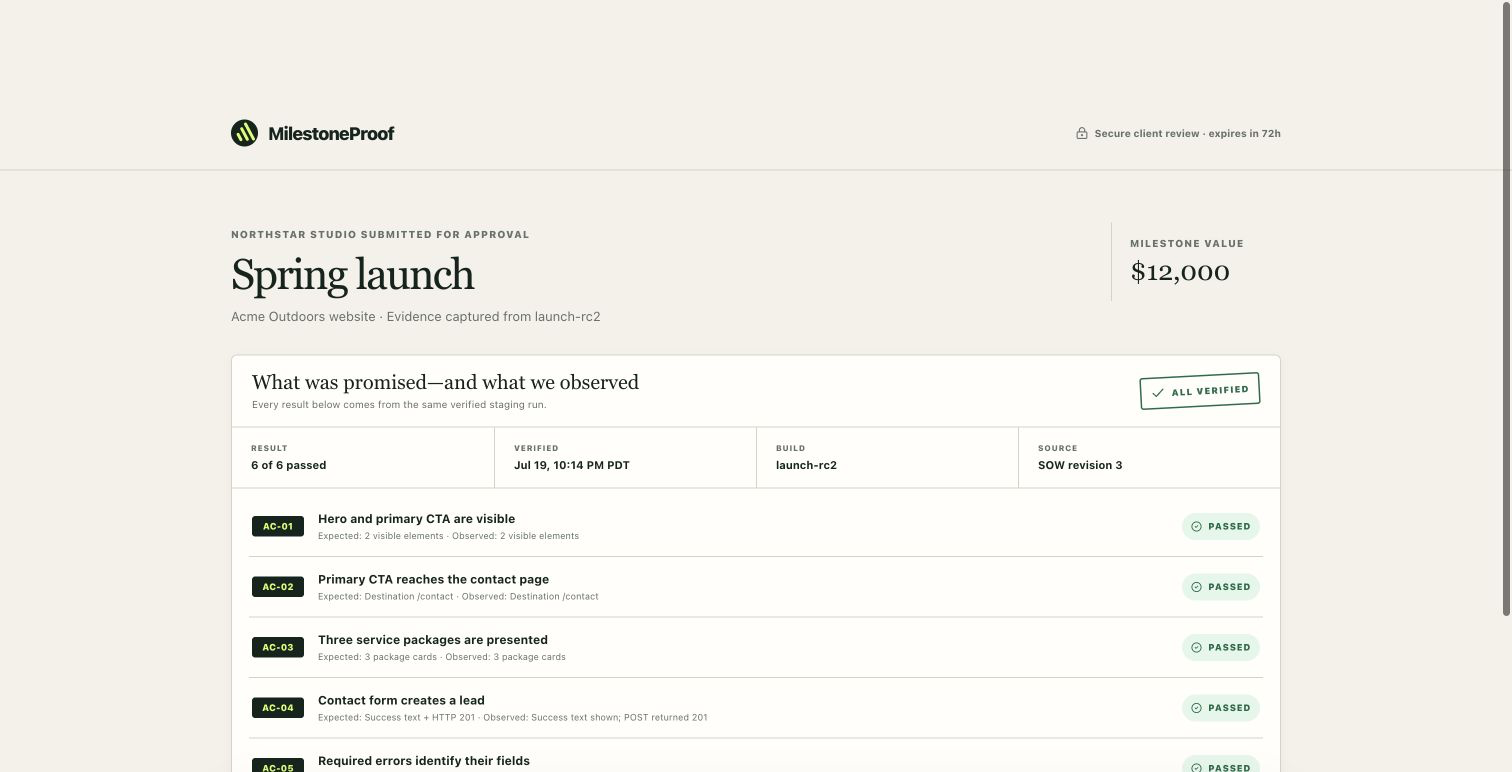
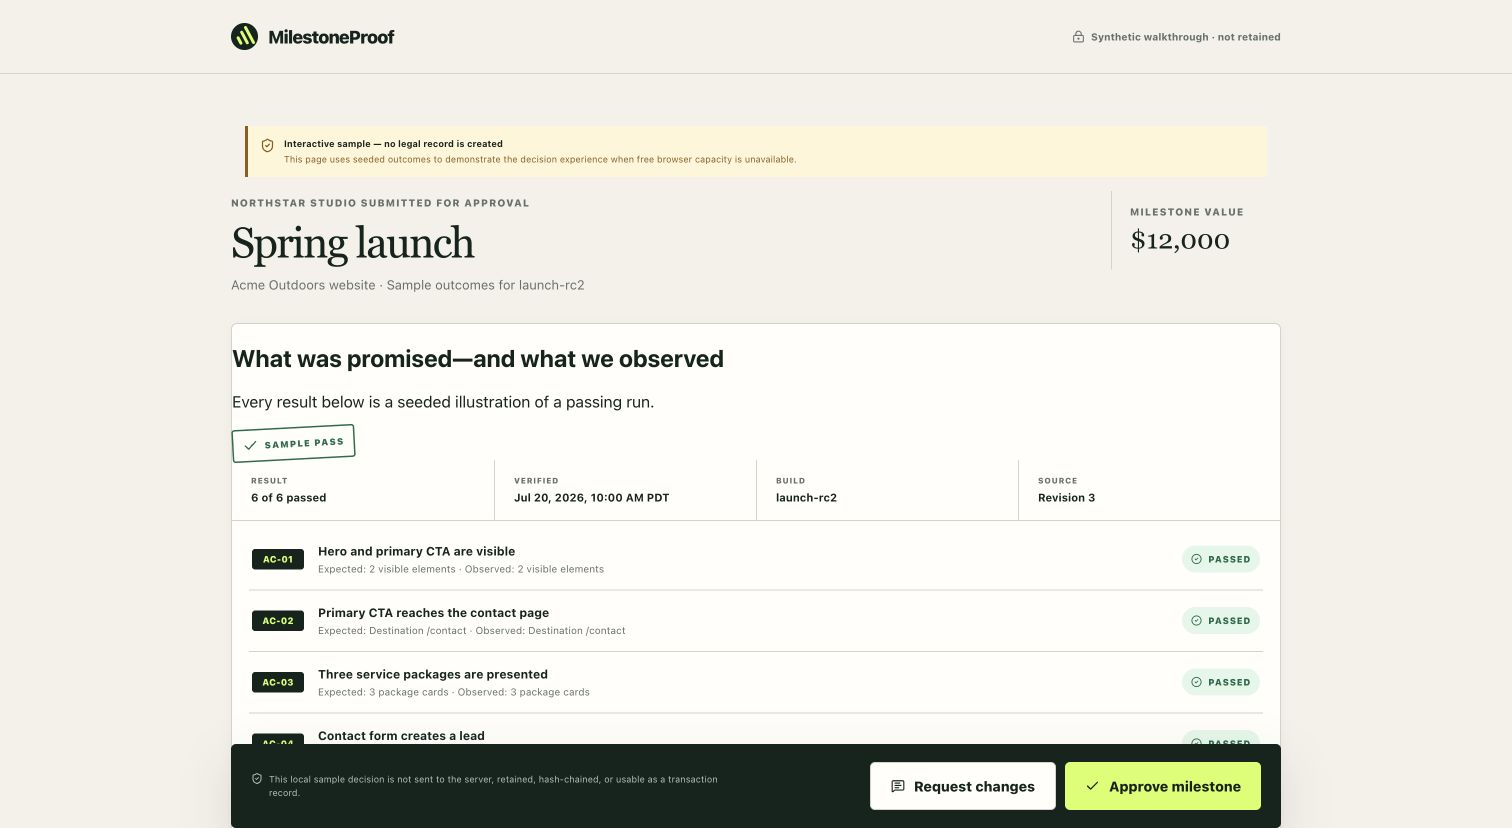
fix: stabilize demo timestamps and refresh screenshots

diff --git a/apps/web/components/approval-receipt.tsx b/apps/web/components/approval-receipt.tsx
@@ -23,7 +23,6 @@ type ReceiptPacket = {
 };
 
 const money = (amountMinor: number, currency: string) => new Intl.NumberFormat("en-US", { style: "currency", currency, maximumFractionDigits: 0 }).format(amountMinor / 100);
-const dateTime = (value: string) => formatTimestamp(new Date(value));
 
 type DemoReviewer = { reviewerName: string; reviewerEmail: string; reviewerNote: string; decidedAt: string };
 
@@ -54,6 +53,13 @@ function demoReceipt(reviewer: DemoReviewer = { reviewerName: "Sample Client", r
 }
 
 export function ApprovalReceipt({ packetId, demo = false }: { packetId: string; demo?: boolean }) {
+  const dateTime = (value: string) => formatTimestamp(new Date(value), demo ? "America/Los_Angeles" : undefined);
+  const dateStamp = (value: string) => new Intl.DateTimeFormat("en-US", {
+    month: "short",
+    day: "numeric",
+    year: "numeric",
+    ...(demo ? { timeZone: "America/Los_Angeles" } : {}),
+  }).format(new Date(value)).toUpperCase();
   const [packet, setPacket] = useState<ReceiptPacket | null>(() => demo ? demoReceipt() : null);
   const [error, setError] = useState("");
   const [toast, setToast] = useState("");
@@ -88,7 +94,7 @@ export function ApprovalReceipt({ packetId, demo = false }: { packetId: string; 
       <div className="receipt-toolbar"><Brand /><div className="receipt-toolbar__actions"><Link className="button button--outline button--small" href="/workspace"><ArrowLeft size={13} /> Workspace</Link>{!demo && <a className="button button--outline button--small" href={`/api/reviews/${encodeURIComponent(packetId)}/export`}><FileJson2 size={14} /> Export JSON</a>}<button className="button button--ink button--small" onClick={savePdf}><Download size={14} /> Save PDF</button></div></div>
       <article className="receipt-page" aria-label="Milestone approval record">
         {demo && <div className="analysis-notice"><FileWarning size={15} /><div><strong>Synthetic sample — not a retained approval record</strong><span>This printable page illustrates the final format. It has no evidence hashes, audit chain, server-side decision, or legal-record status.</span></div></div>}
-        <header className="receipt-head"><div><Brand /><h1>Milestone approval record</h1></div><div className="receipt-stamp"><span><Check size={23} strokeWidth={3} /><br />APPROVED<br />{new Date(packet.decidedAt).toLocaleDateString("en-US", { month: "short", day: "numeric", year: "numeric" }).toUpperCase()}</span></div></header>
+        <header className="receipt-head"><div><Brand /><h1>Milestone approval record</h1></div><div className="receipt-stamp"><span><Check size={23} strokeWidth={3} /><br />APPROVED<br />{dateStamp(packet.decidedAt)}</span></div></header>
         <section className="receipt-facts"><div><span>Agency</span><strong>{snapshot.agencyName}</strong></div><div><span>Client</span><strong>{snapshot.clientName}</strong></div><div><span>Milestone value</span><strong>{money(snapshot.amountMinor, snapshot.currency)}</strong></div></section>
         <span className="receipt-section-title">Approved scope · revision {snapshot.revision}</span>
         <div className="receipt-criteria">{snapshot.criteria.map((criterion) => <div className="receipt-criterion" key={criterion.id}><span className="criterion-id">{criterion.id}</span><div><strong>{criterion.title}</strong><small>{results[criterion.id]?.observed ?? "Recorded result"}</small></div><span className="status-badge status-badge--pass"><Check size={10} /> Passed</span></div>)}</div>

diff --git a/apps/web/components/client-review.tsx b/apps/web/components/client-review.tsx
@@ -29,7 +29,6 @@ type ReviewSnapshot = {
 type PacketResponse = { packetId: string; snapshot: ReviewSnapshot; snapshotSha256: string; expiresAt: string; decision?: "APPROVED" | "CHANGES_REQUESTED" | null; reviewerName?: string | null; reviewerEmail?: string | null; reviewerNote?: string | null; decidedAt?: string | null; receiptSha256?: string | null };
 
 const money = (amountMinor: number, currency: string) => new Intl.NumberFormat("en-US", { style: "currency", currency, maximumFractionDigits: 0 }).format(amountMinor / 100);
-const dateTime = (value: string) => formatTimestamp(new Date(value));
 
 function demoPacket(): PacketResponse {
   const completedAt = "2026-07-20T17:00:00.000Z";
@@ -58,6 +57,7 @@ function demoPacket(): PacketResponse {
 }
 
 export function ClientReview({ packetId, demo = false }: { packetId: string; demo?: boolean }) {
+  const dateTime = (value: string) => formatTimestamp(new Date(value), demo ? "America/Los_Angeles" : undefined);
   const [packet, setPacket] = useState<PacketResponse | null>(() => demo ? demoPacket() : null);
   const [loading, setLoading] = useState(!demo);
   const [error, setError] = useState("");

diff --git a/apps/web/lib/format.ts b/apps/web/lib/format.ts
@@ -3,7 +3,10 @@ export function formatDuration(ms: number): string {
   return `${(ms / 1000).toFixed(1)}s`;
 }
 
-export function formatTimestamp(value = new Date("2026-07-19T21:42:00-07:00")): string {
+export function formatTimestamp(
+  value = new Date("2026-07-19T21:42:00-07:00"),
+  timeZone?: string,
+): string {
   return new Intl.DateTimeFormat("en-US", {
     month: "short",
     day: "numeric",
@@ -11,6 +14,6 @@ export function formatTimestamp(value = new Date("2026-07-19T21:42:00-07:00")): 
     hour: "numeric",
     minute: "2-digit",
     timeZoneName: "short",
+    ...(timeZone ? { timeZone } : {}),
   }).format(value);
 }
-

diff --git a/apps/web/lib/format.test.ts b/apps/web/lib/format.test.ts
@@ -12,4 +12,9 @@ describe("record formatting", () => {
     expect(rendered).toMatch(/Jul 20, 2026/);
     expect(rendered).toMatch(/(UTC|GMT|PDT|PST|EDT|EST|CDT|CST|MDT|MST)/);
   });
+
+  it("renders deterministic demo timestamps in Pacific time", () => {
+    const rendered = formatTimestamp(new Date("2026-07-20T17:00:00.000Z"), "America/Los_Angeles");
+    expect(rendered).toBe("Jul 20, 2026, 10:00 AM PDT");
+  });
 });
